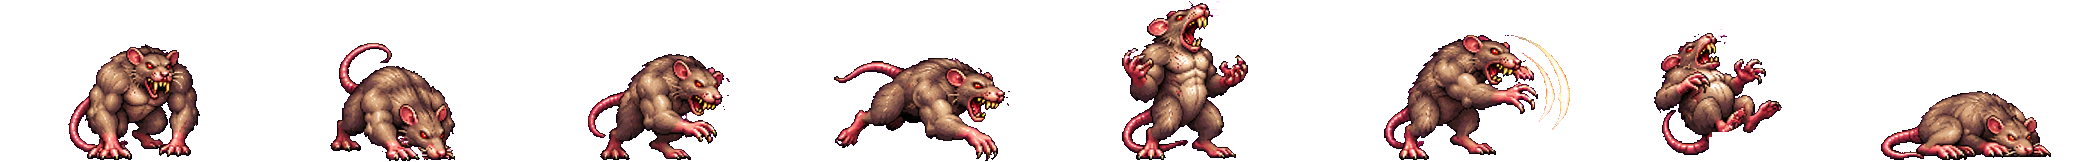
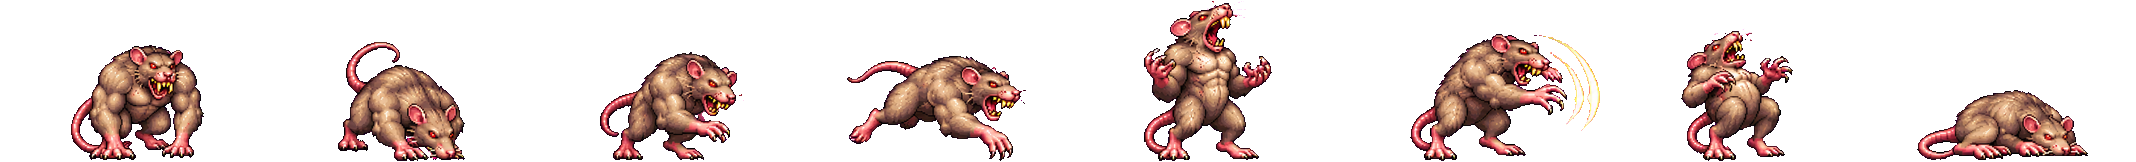
Under the Trailer: fixed Big Buff Rat + Rat King sheets; sizes: rat small, buff rat/possum/raccoon medium, Rat King large
Claude-Session: https://claude.ai/code/session_01QR4rFRbYTeq9tRTzXkRUE8

diff --git a/arcade/games.js b/arcade/games.js
@@ -1250,12 +1250,12 @@ TRL.face = (who, hp) => { const F = TRL.faces, ld = n => { if (F[n] === undefine
   if (F[n] === undefined) { F[n] = null; const im = new Image(); im.onload = () => F[n] = im; im.onerror = () => { F[n] = false; }; im.src = '../assets/' + n + '.png'; }
   return F[n] || F[who + '_normal'] || null; };
 TRL.FOES = [   /* spr: 8-frame strip (0 idle 1 sniff 2 stalk 3 run 4 rear up 5 attack 6 hurt 7 down) */
-  { name: 'SEWER RAT', spr: 'ut_rat', snd: 'rat_screech', hp: [7, 10], atk: [2, 4], w: 5, sc: 1, pts: 50 },
-  { name: 'BIG BUFF RAT', spr: 'ut_buffrat', snd: 'rat_screech', hp: [13, 17], atk: [3, 6], w: 3, sc: 1.3, pts: 120 },
+  { name: 'SEWER RAT', spr: 'ut_rat', snd: 'rat_screech', hp: [7, 10], atk: [2, 4], w: 5, sc: 0.7, pts: 50 },
+  { name: 'BIG BUFF RAT', spr: 'ut_buffrat', snd: 'rat_screech', hp: [13, 17], atk: [3, 6], w: 3, sc: 1.05, pts: 120 },
   { name: 'POSSUM', spr: 'ut_possum', snd: 'possum_hiss', hp: [10, 13], atk: [2, 5], w: 2, sc: 1.05, pts: 90, possum: true },
-  { name: 'RACCOON', spr: 'ut_raccoon', snd: 'raccoon', off: 2.5, hp: [12, 15], atk: [3, 5], w: 2, sc: 1.1, pts: 110, thief: true },
+  { name: 'RACCOON', spr: 'ut_raccoon', snd: 'raccoon', off: 2.5, hp: [12, 15], atk: [3, 5], w: 2, sc: 1.05, pts: 110, thief: true },
   { name: 'BROWN RECLUSE', spr: 'ut_spider', snd: 'spider', hp: [5, 8], atk: [2, 3], w: 2, sc: 0.8, pts: 80, venom: true },
-  { name: 'THE RAT KING', spr: 'ut_ratking', snd: 'rat_screech', hp: [22, 26], atk: [4, 7], w: 1, sc: 1.45, king: true, pts: 300 },
+  { name: 'THE RAT KING', spr: 'ut_ratking', snd: 'rat_screech', hp: [22, 26], atk: [4, 7], w: 1, sc: 1.35, king: true, pts: 300 },
 ];
 TRL.cry = (F, long) => SFX(F.snd, { offset: F.off || 0, dur: long ? 1.6 : 1.0 });   /* each critter's own noise */
 TRL.UTS = (n, f, cx, by, h, flip, a) => { const im = MG(n); if (!im) return false; const cw = im.width / 8, w = h * cw / im.height;   /* one frame of a creature strip */
